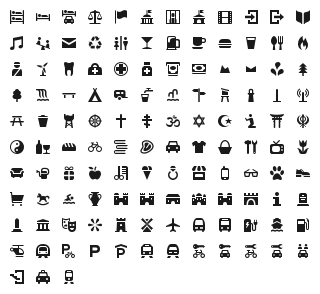
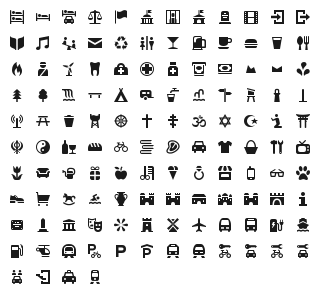
new symbol for memorial, old one as cemetery (fixes #29)

diff --git a/font/osmic-preview.html b/font/osmic-preview.html
@@ -184,6 +184,7 @@
 .oc-castle-manor:before,
 .oc-castle-palace:before,
 .oc-castle-stately:before,
+.oc-cemetery:before,
 .oc-charging-station:before,
 .oc-christian:before,
 .oc-christian-orthodox:before,
@@ -321,6 +322,7 @@
 .oc-castle-manor:before { content: "\f115"; }
 .oc-castle-palace:before { content: "\f116"; }
 .oc-castle-stately:before { content: "\f117"; }
+.oc-cemetery:before { content: "\f17c"; }
 .oc-charging-station:before { content: "\f16f"; }
 .oc-christian:before { content: "\f118"; }
 .oc-christian-orthodox:before { content: "\f119"; }
@@ -435,7 +437,7 @@
   <body class="characters-off">
     <div id="page" class="container">
       <header>
-        <h1>osmic contains 123 glyphs:</h1>
+        <h1>osmic contains 124 glyphs:</h1>
         <a onclick="toggleCharacters(); return false;" href="#">Toggle Preview Characters</a>
       </header>
 
@@ -749,6 +751,19 @@
         <div class="usage">
           <input class="class" type="text" readonly="readonly" onClick="this.select();" value=".oc-castle-stately" />
           <input class="point" type="text" readonly="readonly" onClick="this.select();" value="&amp;#xf117;" />
+        </div>
+      </div>
+      
+      <div class="glyph">
+        <div class="preview-glyphs">
+          <span class="step size-12"><span class="letters">Pp</span><i id="oc-cemetery" class="oc-cemetery"></i></span><span class="step size-14"><span class="letters">Pp</span><i id="oc-cemetery" class="oc-cemetery"></i></span><span class="step size-16"><span class="letters">Pp</span><i id="oc-cemetery" class="oc-cemetery"></i></span><span class="step size-18"><span class="letters">Pp</span><i id="oc-cemetery" class="oc-cemetery"></i></span><span class="step size-21"><span class="letters">Pp</span><i id="oc-cemetery" class="oc-cemetery"></i></span><span class="step size-24"><span class="letters">Pp</span><i id="oc-cemetery" class="oc-cemetery"></i></span><span class="step size-36"><span class="letters">Pp</span><i id="oc-cemetery" class="oc-cemetery"></i></span><span class="step size-48"><span class="letters">Pp</span><i id="oc-cemetery" class="oc-cemetery"></i></span><span class="step size-60"><span class="letters">Pp</span><i id="oc-cemetery" class="oc-cemetery"></i></span><span class="step size-72"><span class="letters">Pp</span><i id="oc-cemetery" class="oc-cemetery"></i></span>
+        </div>
+        <div class="preview-scale">
+          <span class="step">12</span><span class="step">14</span><span class="step">16</span><span class="step">18</span><span class="step">21</span><span class="step">24</span><span class="step">36</span><span class="step">48</span><span class="step">60</span><span class="step">72</span>
+        </div>
+        <div class="usage">
+          <input class="class" type="text" readonly="readonly" onClick="this.select();" value=".oc-cemetery" />
+          <input class="point" type="text" readonly="readonly" onClick="this.select();" value="&amp;#xf17c;" />
         </div>
       </div>
       

diff --git a/font/osmic.css b/font/osmic.css
@@ -47,6 +47,7 @@
 .oc-castle-manor:before,
 .oc-castle-palace:before,
 .oc-castle-stately:before,
+.oc-cemetery:before,
 .oc-charging-station:before,
 .oc-christian:before,
 .oc-christian-orthodox:before,
@@ -184,6 +185,7 @@
 .oc-castle-manor:before { content: "\f115"; }
 .oc-castle-palace:before { content: "\f116"; }
 .oc-castle-stately:before { content: "\f117"; }
+.oc-cemetery:before { content: "\f17c"; }
 .oc-charging-station:before { content: "\f16f"; }
 .oc-christian:before { content: "\f118"; }
 .oc-christian-orthodox:before { content: "\f119"; }
